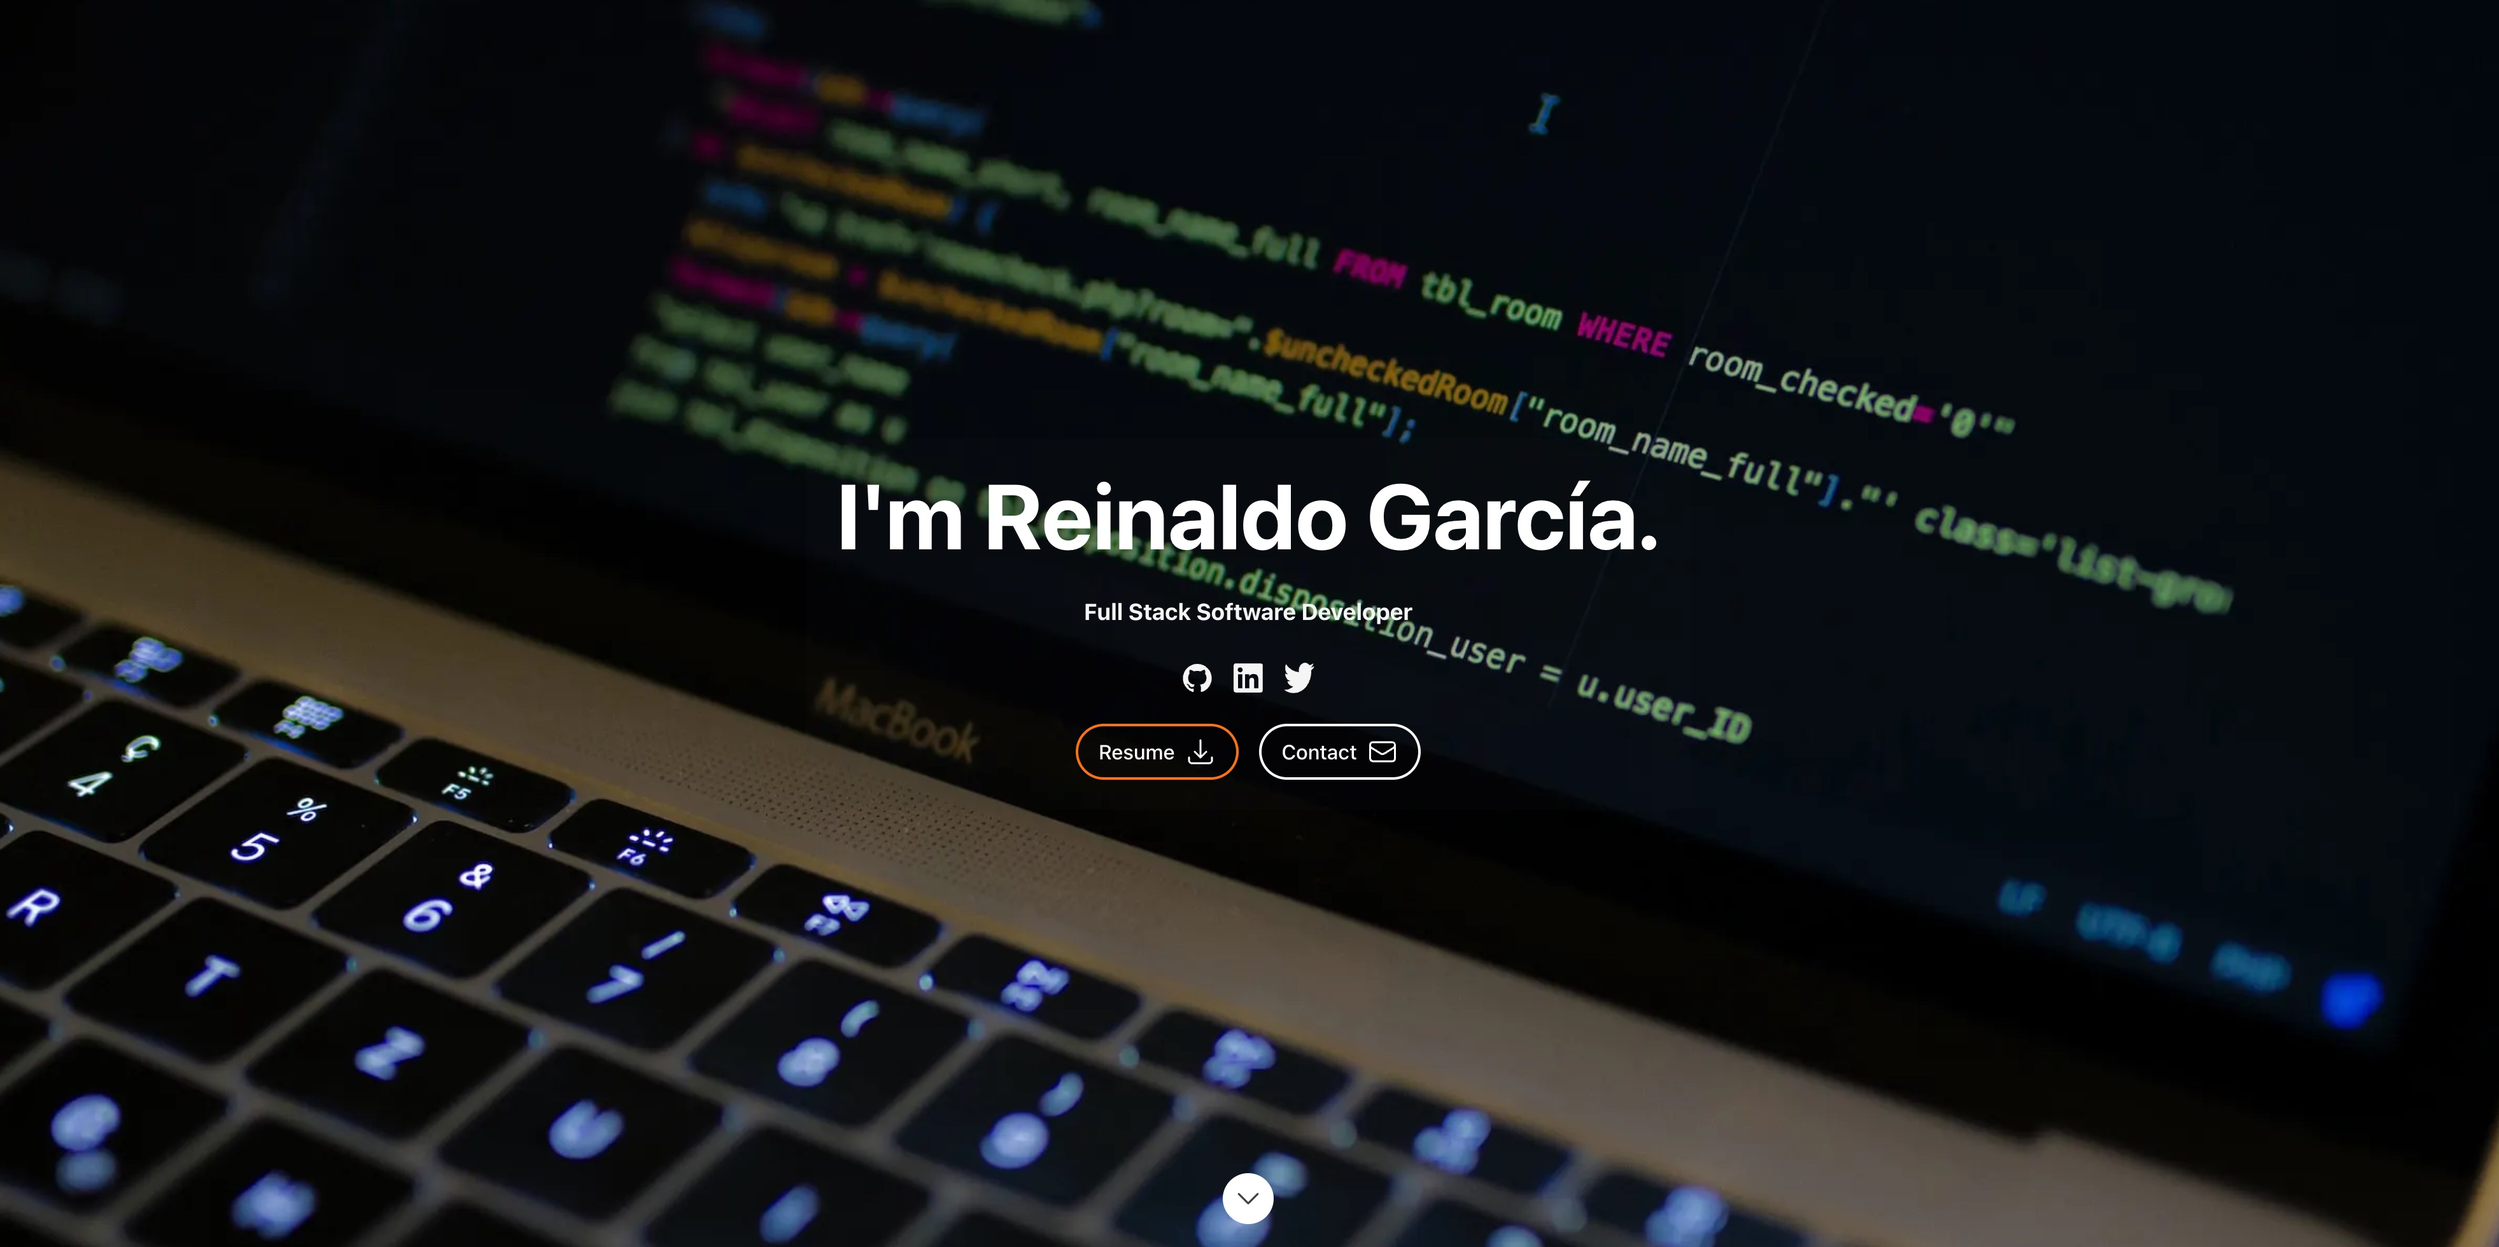
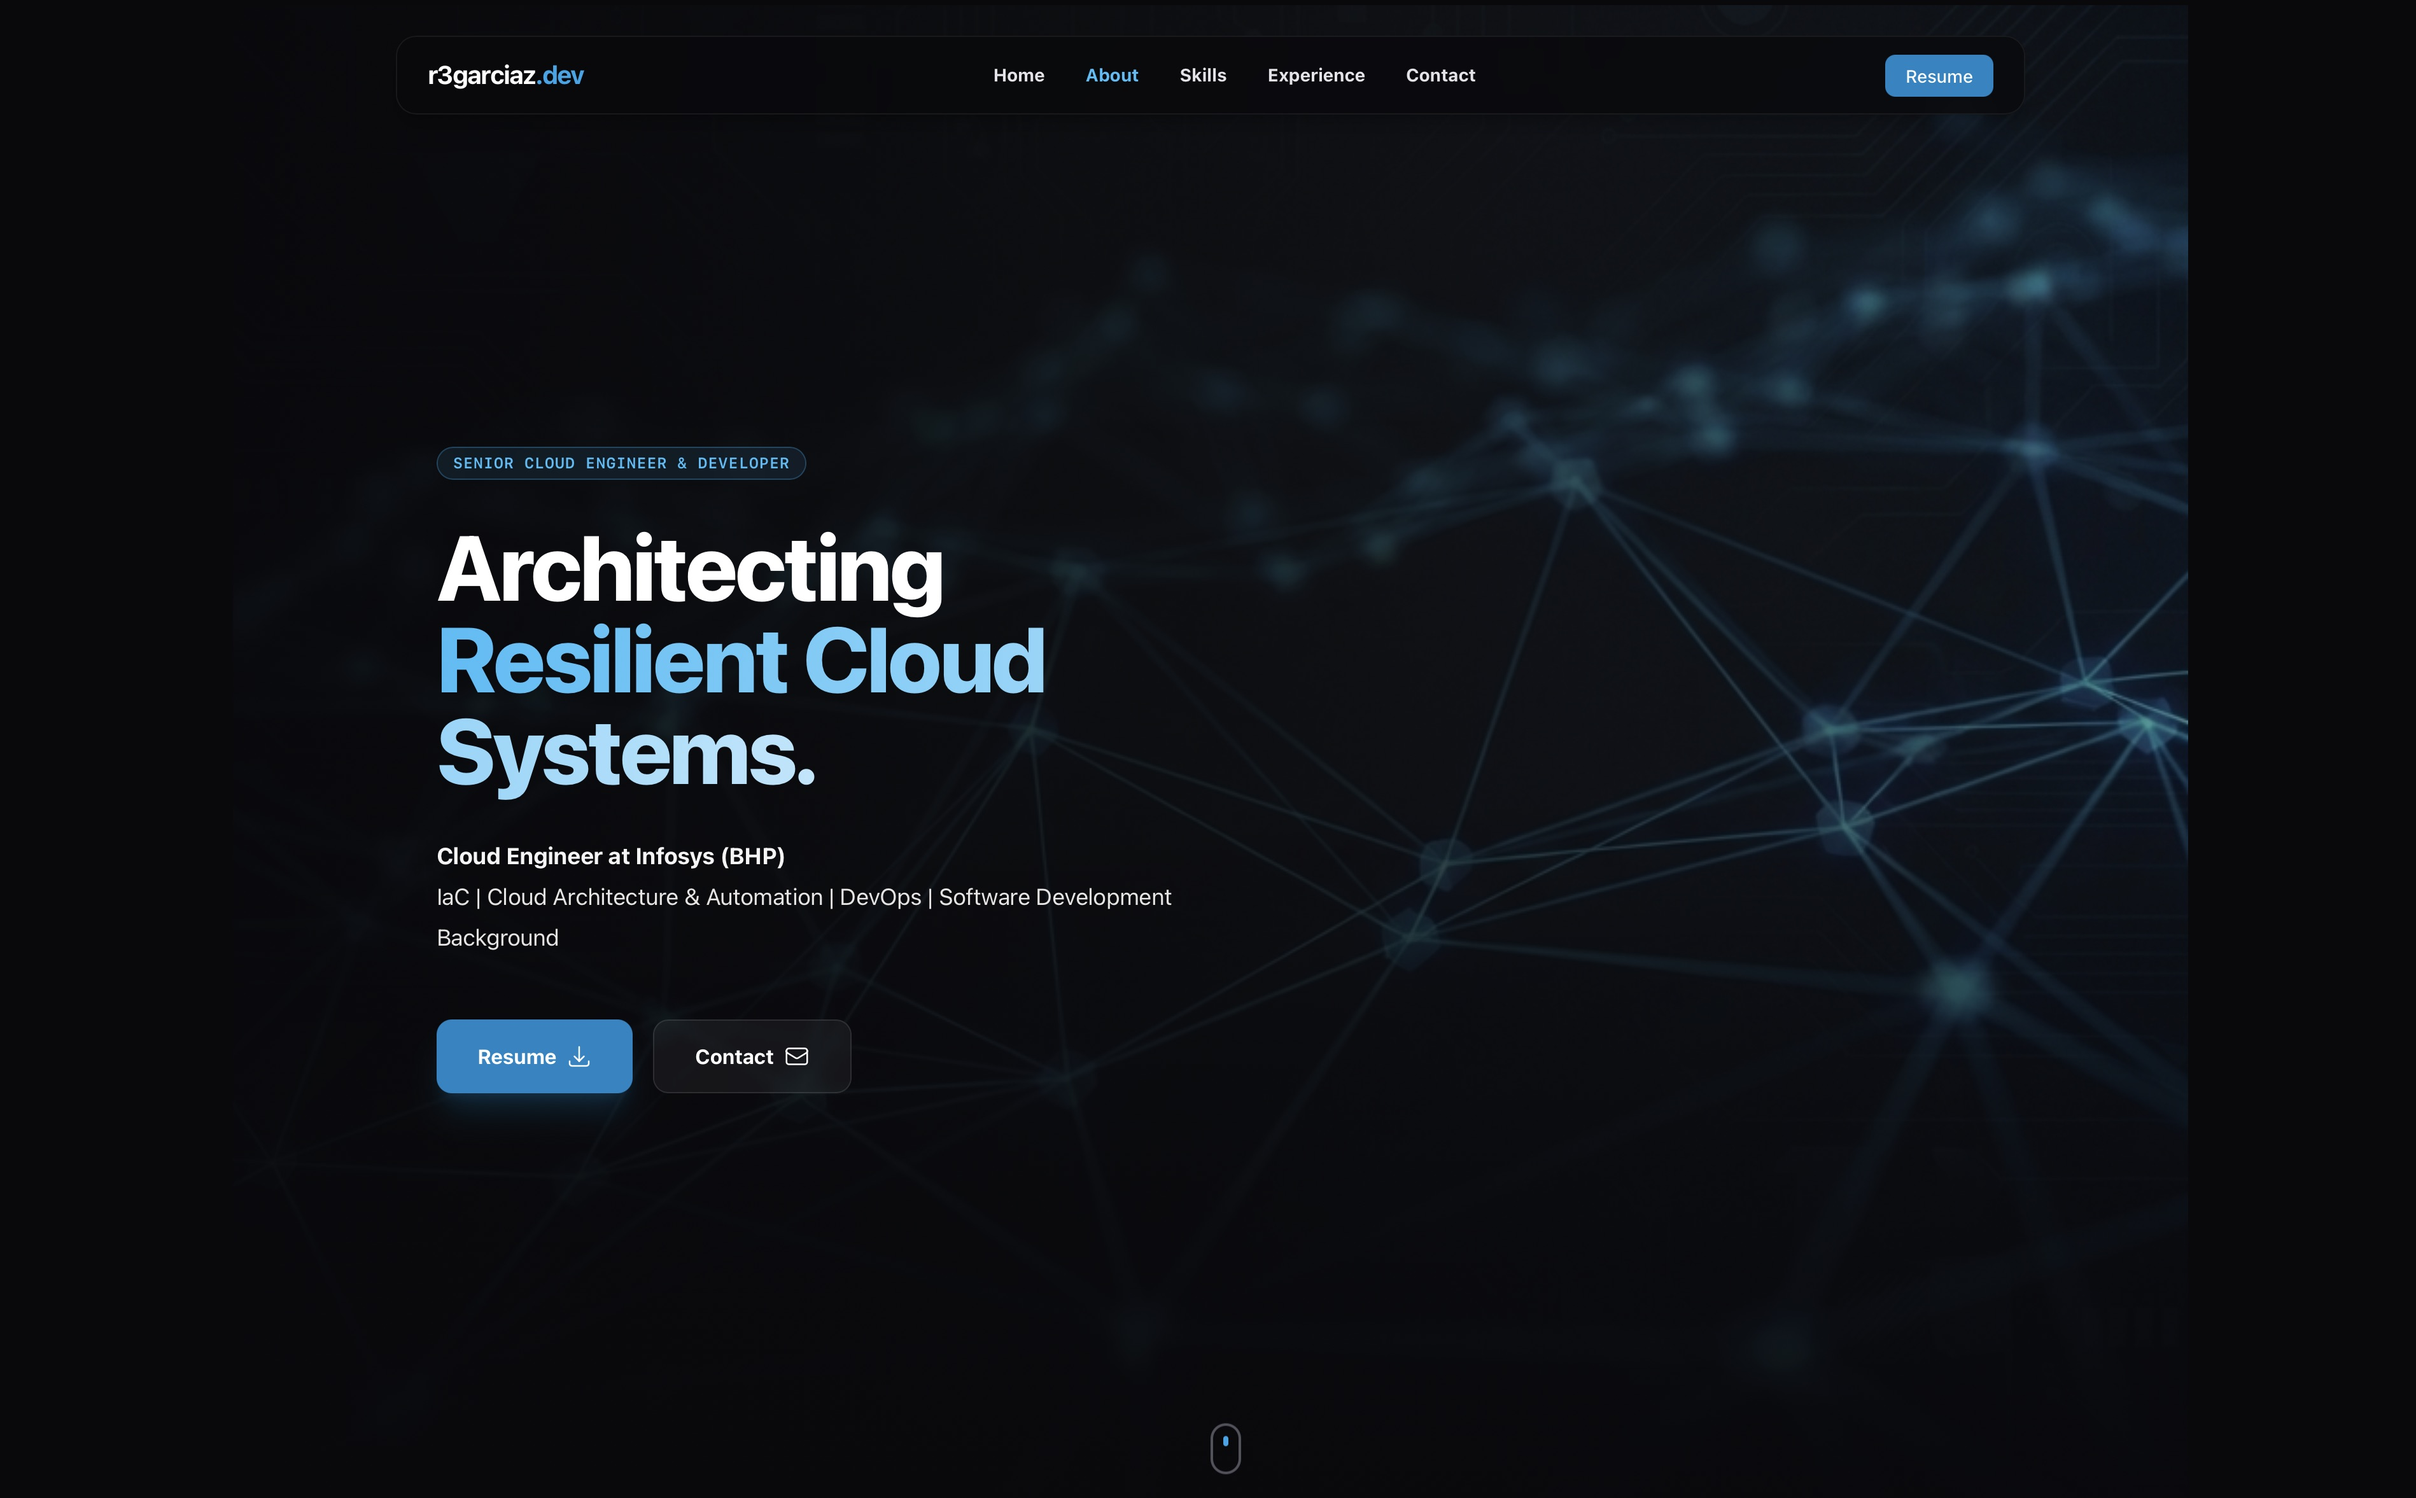
feat: Revamp README with a detailed portfolio overview and update the project screenshot.

diff --git a/README.md b/README.md
@@ -1,4 +1,4 @@
-# r3garciaz - Porfolio
+# r3garciaz - Cloud Engineer Portfolio
 
 ![](resume-screenshot.jpg?raw=true 'r3garciaz Portfolio Website Template')
 
@@ -16,20 +16,68 @@
 
 [//]: # (<img alt="Github Repo Sponsors" src="https://img.shields.io/github/sponsors/r3garciaz?style=flat&color=blueviolet">)
 
-## Welcome to my professional portfolio built with Next.js! 🚀
+## Modern Cloud Engineer Portfolio 🚀
 
 </div>
 
-### Goto my Portfolio [here.](https://r3garciaz.dev)
+### Live Demo: [r3garciaz.dev](https://r3garciaz.dev)
 
-## Description
+## Overview
 
-This is my React based personal resume website. Built with typescript on the Next.js framework, styled with Tailwind css. The site is fully mobile-optimized and server-side rendered to ensure fast loading and a clean UI on any device.
+This is a modern, high-performance portfolio website designed for a **Senior Cloud Engineer**. It features a "Dark SaaS" aesthetic with deep zinc backgrounds, glassmorphism, and smooth animations.
+
+Built with **Next.js 16**, **TypeScript**, and **Tailwind CSS**.
+
+## Key Features
+
+-   **🎨 "Nebula Architect" Theme**: A professional dark mode design with abstract cloud visuals and glassmorphic UI elements.
+-   **⚡ High Performance**: Powered by Next.js static generation (SSG) for lightning-fast load times.
+-   **📱 Fully Responsive**: Mobile-first design that adapts seamlessly to all device sizes.
+-   **🧩 Bento Grid Layout**: Skills are organized in a modern grid layout for better visual hierarchy.
+-   **🚀 Experience Pipeline**: Career history is visualized as a connected timeline.
+-   **💎 Smart Navigation**: Floating header that intelligently hides on scroll to maximize content visibility.
+
+## Tech Stack
+
+-   **Framework**: [Next.js 16](https://nextjs.org/)
+-   **Styling**: [Tailwind CSS](https://tailwindcss.com/) + [Sass](https://sass-lang.com/)
+-   **Icons**: [Heroicons](https://heroicons.com/)
+-   **Animation**: Custom CSS Keyframes & Transitions
+-   **Deployment**: Vercel / Netlify / R2
+
+## Getting Started
+
+1.  **Clone the repository:**
+    ```bash
+    git clone https://github.com/r3garciaz/portfolio-nextjs.git
+    cd portfolio-nextjs
+    ```
+
+2.  **Install dependencies:**
+    ```bash
+    yarn install
+    ```
+
+3.  **Run the development server:**
+    ```bash
+    yarn dev
+    ```
+
+4.  **Build for production:**
+    ```bash
+    yarn build
+    ```
+
+## Project Structure
+
+-   `src/components/Modern/`: New component architecture.
+    -   `Sections/`: Hero (Full-width), About, Skills (Bento), Experience (Pipeline), Projects, Contact.
+    -   `Layout/`: Glassmorphic Header & Footer.
+    -   `UI/`: Reusable Cards and Section wrappers.
+-   `src/data/`: Centralized content management.
+
+## Author
 
 ### Reinaldo García - r3garciaz
 
 <a href="https://twitter.com/r3garciaz"><img src="https://github.com/aritraroy/social-icons/blob/master/twitter-icon.png?raw=true" width="60"></a><a href="https://www.linkedin.com/in/r3garciaz/"><img src="https://github.com/aritraroy/social-icons/blob/master/linkedin-icon.png?raw=true" width="60"></a>
-
-[//]: # ([![GitHub followers]&#40;https://img.shields.io/github/followers/r3garciaz.svg?style=social&label=Follow&#41;]&#40;https://github.com/r3garciaz/&#41;)
-
-
